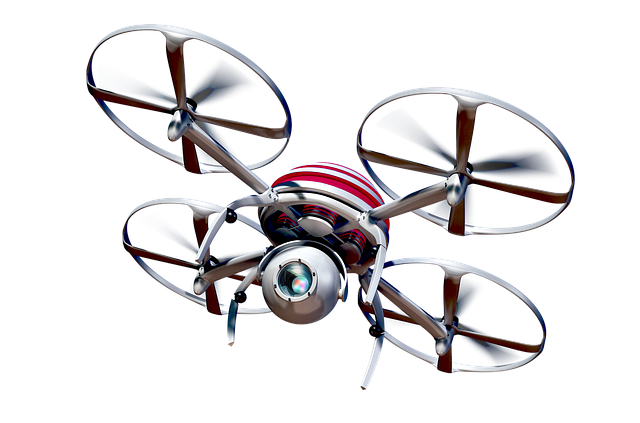
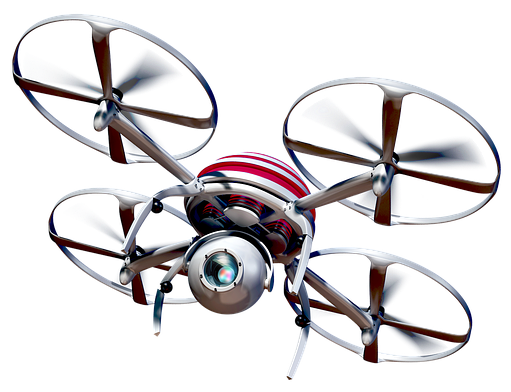
finished carousel, but it needs content. also its mobile friendly

diff --git a/index.html b/index.html
@@ -49,7 +49,7 @@
 
     <nav class="navbar sticky-top navbar-expand-lg navbar-dark bg-dark">
         <div class="container-fluid">
-            <a class="navbar-brand" href="#">Augmentation Utopia</a>
+            <a class="navbar-brand" href="#"><img src="./images/logo.png" height="75px" alt="Logo"></a>
             <button class="navbar-toggler" type="button" data-bs-toggle="collapse"
                 data-bs-target="#navbarSupportedContent" aria-controls="navbarSupportedContent" aria-expanded="false"
                 aria-label="Toggle navigation">
@@ -92,41 +92,55 @@
                 <svg class="d-block w-100" width="800" height="600" xmlns="http://www.w3.org/2000/svg"
                     aria-hidden="true" preserveAspectRatio="xMidYMid slice" focusable="false">
                     <rect width="100%" height="100%" fill="#777" />
-                    <!-- <text fill="#555" x="50%" y="50%" dominant-baseline="middle" text-anchor="middle" font-size="2em">
-                        First Slide
-                    </text> -->
-                    <image id="robodog" href="./images/robodog.png" x="50%" width="500px" height="615px"></image>
+                    <foreignObject x="20%" y="35%" width="250" height="200">
+                        <h2 class="fastDropIn" xmlns="http://www.w3.org/1999/xhtml"
+                            style="color: white; width: 100%; word-wrap: break-word;">
+                            Sample Text
+                        </h2>
+                        <p class="dropIn rescale" xmlns="http://www.w3.org/1999/xhtml"
+                            style="color: white; word-wrap: break-word;">
+                            Lorem ipsum dolor sit, amet consectetur adipisicing elit. Animi, vitae.
+                        </p>
+                    </foreignObject>
+                    <image id="robodog" class="moveRight" href="./images/robodog.png" x="50%" width="40%"
+                        height="100%"></image>
                 </svg>
-                <div class="carousel-caption d-none d-md-block">
-                    <h5>First slide label</h5>
-                    <p>Some representative placeholder content for the first slide.</p>
-                </div>
             </div>
             <div class="carousel-item">
                 <svg class="d-block w-100" width="800" height="600" xmlns="http://www.w3.org/2000/svg"
                     aria-hidden="true" preserveAspectRatio="xMidYMid slice" focusable="false">
                     <rect width="100%" height="100%" fill="#666" />
-                    <text fill="#444" x="50%" y="50%" dominant-baseline="middle" text-anchor="middle" font-size="2em">
-                        Second Slide
-                    </text>
+                    <foreignObject x="60%" y="35%" width="250" height="200">
+                        <h2 class="fastDropIn" xmlns="http://www.w3.org/1999/xhtml"
+                            style="color: white; width: 100%; word-wrap: break-word;">
+                            Sample Text
+                        </h2>
+                        <p class="dropIn rescale" xmlns="http://www.w3.org/1999/xhtml"
+                            style="color: white; word-wrap: break-word;">
+                            Lorem ipsum dolor sit, amet consectetur adipisicing elit. Animi, vitae.
+                        </p>
+                    </foreignObject>
+                    <image id="hololens" class="dropIn" href="./images/hololens2.png" x="10%" width="40%"
+                        height="100%"></image>
                 </svg>
-                <div class="carousel-caption d-none d-md-block">
-                    <h5>Second slide label</h5>
-                    <p>Some representative placeholder content for the second slide.</p>
-                </div>
             </div>
             <div class="carousel-item">
                 <svg class="d-block w-100" width="800" height="600" xmlns="http://www.w3.org/2000/svg"
                     aria-hidden="true" preserveAspectRatio="xMidYMid slice" focusable="false">
                     <rect width="100%" height="100%" fill="#555" />
-                    <text fill="#777" x="50%" y="50%" dominant-baseline="middle" text-anchor="middle" font-size="2em">
-                        Third Slide
-                    </text>
+                    <foreignObject x="20%" y="35%" width="250" height="200">
+                        <h2 class="fastDropIn" xmlns="http://www.w3.org/1999/xhtml"
+                            style="color: white; width: 100%; word-wrap: break-word;">
+                            Sample Text
+                        </h2>
+                        <p class="dropIn rescale" xmlns="http://www.w3.org/1999/xhtml"
+                            style="color: white; word-wrap: break-word;">
+                            Lorem ipsum dolor sit, amet consectetur adipisicing elit. Animi, vitae.
+                        </p>
+                    </foreignObject>
+                    <image id="rover" class="moveLeft" href="./images/rover.png" x="50%" width="40%" height="100%">
+                    </image>
                 </svg>
-                <div class="carousel-caption d-none d-md-block">
-                    <h5>Third slide label</h5>
-                    <p>Some representative placeholder content for the third slide.</p>
-                </div>
             </div>
         </div>
         <button class="carousel-control-prev" type="button" data-bs-target="#carousel" data-bs-slide="prev">
@@ -153,7 +167,7 @@
             </div>
         </div>
         <div id="drone" class="col-md-6" style="position: relative;">
-            <img src="./images/drone.png" style="height: 300px;" alt="drone" />
+            <img src="./images/drone.png" style="height: 250px;" alt="drone" />
         </div>
     </div>
 </body>

diff --git a/styles/style.css b/styles/style.css
@@ -1,8 +1,75 @@
-@keyframes grow {
-    from { width: 500px; }
-    to { width: 600px; }
+@keyframes moveRight {
+    0% {
+        opacity: 0;
+        transform: translateX(0%);
+    }
+
+    100% {
+        opacity: 1;
+        transform: translateX(5%);
+    }
 }
 
-#robodog {
-    animation: grow 5s forwards;
+.moveRight {
+    animation: moveRight 5s forwards;
+}
+
+@keyframes moveLeft {
+    0% {
+        opacity: 0;
+        transform: translateX(20%);
+    }
+
+    100% {
+        opacity: 1;
+        transform: translateX(0%);
+    }
+}
+
+.moveLeft {
+    animation: moveLeft 5s forwards;
+}
+
+@keyframes dropIn {
+    0% {
+      opacity: 0;
+      transform: translateY(-30%);
+    }
+
+    30%, 100% {
+      opacity: 1;
+      transform: translateY(0);
+    }
+}
+
+.dropIn {
+    animation: dropIn 5s forwards;
+}
+
+@keyframes fastDropIn {
+    0% {
+        transform: translateY(-40%);
+    }
+
+    25%, 100% {
+        transform: translateY(0%);
+    }
+}
+
+.fastDropIn {
+    animation: fastDropIn 5s forwards;
+}
+
+@media screen and (min-width: 801px) {
+    p.rescale {
+      font-size: 20px;
+      width: 100%;
+    }
+}
+  
+@media screen and (max-width: 800px) {
+    p.rescale {
+      font-size: 10px;
+      width: 50%;
+    }
 }

diff --git a/scripts/index.js b/scripts/index.js
@@ -33,7 +33,7 @@ $(() => {
             }, "slow");
 
             $("#drone").animate({
-                left: "-50%",
+                left: "-40%",
             }, "slow");
         }
     };
